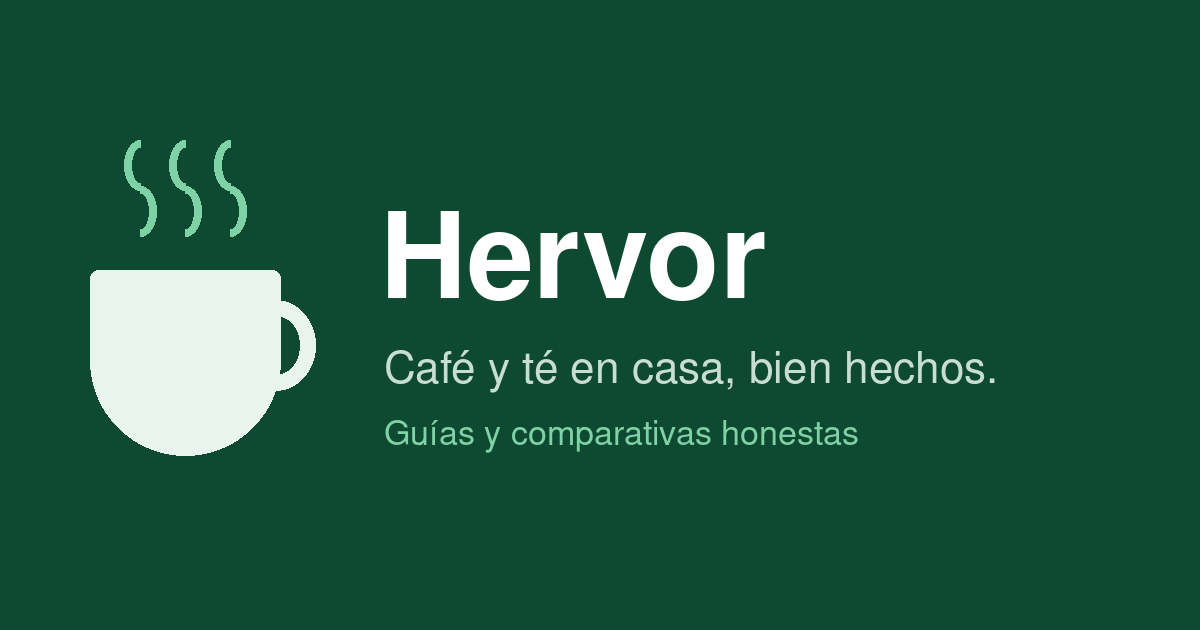
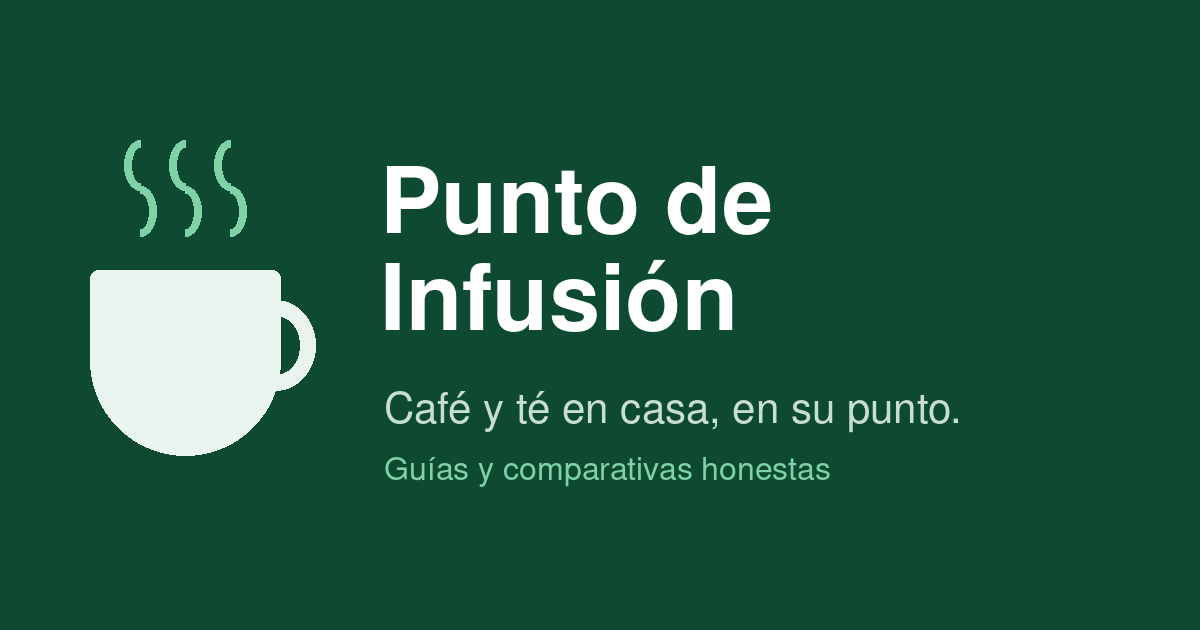
Cambio de marca a Punto de Infusión

Changed region(s): [[0.3083, 0.2413, 0.8325, 0.7841]]

diff --git a/build.py b/build.py
@@ -1,5 +1,5 @@
 #!/usr/bin/env python3
-"""Genera la web estática de Hervor en dist/.
+"""Genera la web estática de Punto de Infusión en dist/.
 
     python3 build.py            # construye dist/
     python3 build.py --serve    # construye y sirve en http://localhost:8088
@@ -144,11 +144,11 @@ def pagina(titulo, descripcion, ruta, contenido, schema=None, tipo_og='website',
 <meta property="og:title" content="{esc(titulo)}">
 <meta property="og:description" content="{esc(descripcion)}">
 <meta property="og:url" content="{canon}">
-<meta property="og:site_name" content="Hervor">
+<meta property="og:site_name" content="Punto de Infusión">
 <meta property="og:locale" content="es_ES">
 <meta property="og:image" content="{URL}/static/og.png">
 <link rel="icon" href="/static/favicon.svg" type="image/svg+xml">
-<link rel="alternate" type="application/rss+xml" title="Hervor" href="/feed.xml">
+<link rel="alternate" type="application/rss+xml" title="Punto de Infusión" href="/feed.xml">
 <link rel="preload" href="/static/fuentes/inter-400.woff2" as="font" type="font/woff2" crossorigin>
 <link rel="stylesheet" href="/static/estilo.css?v={CFG.get('version', '1')}">
 {ld}
@@ -156,9 +156,9 @@ def pagina(titulo, descripcion, ruta, contenido, schema=None, tipo_og='website',
 <body>
 <header class="cab">
   <div class="contenedor cab-in">
-    <a class="logo" href="/"><img src="/static/favicon.svg" alt="" width="28" height="28">Hervor</a>
+    <a class="logo" href="/"><img src="/static/favicon.svg" alt="" width="28" height="28">Punto de Infusión</a>
     <input type="checkbox" id="menu" hidden><label for="menu" class="menu-btn" aria-label="Menú">☰</label>
-    <nav>{nav}<a href="/sobre-hervor/">Quiénes somos</a></nav>
+    <nav>{nav}<a href="/quienes-somos/">Quiénes somos</a></nav>
   </div>
 </header>
 <main>
@@ -166,9 +166,9 @@ def pagina(titulo, descripcion, ruta, contenido, schema=None, tipo_og='website',
 </main>
 <footer class="pie">
   <div class="contenedor">
-    <p class="pie-marca"><strong>Hervor</strong> · Café y té en casa, bien hechos.</p>
+    <p class="pie-marca"><strong>Punto de Infusión</strong> · Café y té en casa, en su punto.</p>
     <p class="pie-aviso">{AVISO_AFILIADO} Los precios y la disponibilidad cambian; el precio válido es el que marca Amazon al comprar.</p>
-    <p class="pie-links"><a href="/sobre-hervor/">Quiénes somos</a><a href="/como-elegimos/">Cómo elegimos</a><a href="/afiliacion/">Afiliación</a><a href="/aviso-legal/">Aviso legal</a><a href="/privacidad/">Privacidad</a><a href="/cookies/">Cookies</a></p>
+    <p class="pie-links"><a href="/quienes-somos/">Quiénes somos</a><a href="/como-elegimos/">Cómo elegimos</a><a href="/afiliacion/">Afiliación</a><a href="/aviso-legal/">Aviso legal</a><a href="/privacidad/">Privacidad</a><a href="/cookies/">Cookies</a></p>
   </div>
 </footer>
 </body>
@@ -210,8 +210,8 @@ def main():
         articulos.append(meta)
     articulos.sort(key=lambda a: (str(a['actualizado']), a['titulo']), reverse=True)
     autor = CFG['autor']
-    persona = {'@type': 'Person', 'name': autor['nombre'], 'url': URL + '/sobre-hervor/'}
-    organizacion = {'@type': 'Organization', 'name': 'Hervor', 'url': URL + '/',
+    persona = {'@type': 'Person', 'name': autor['nombre'], 'url': URL + '/quienes-somos/'}
+    organizacion = {'@type': 'Organization', 'name': 'Punto de Infusión', 'url': URL + '/',
                     'logo': URL + '/static/favicon.svg'}
 
     for a in articulos:
@@ -226,14 +226,14 @@ def main():
         if len(relacionados) < 3:
             relacionados += [r for r in articulos if r['slug'] != a['slug'] and r not in relacionados][:3 - len(relacionados)]
         aviso = (f'<p class="aviso-art">Este artículo contiene enlaces de afiliado: si compras a través de ellos, '
-                 f'Hervor puede llevarse una pequeña comisión sin que tú pagues más. '
+                 f'Punto de Infusión puede llevarse una pequeña comisión sin que tú pagues más. '
                  f'<a href="/afiliacion/">Cómo funciona</a>.</p>') if a['productos'] else ''
         contenido = f'''
 <article class="contenedor articulo">
   <nav class="migas"><a href="/">Inicio</a> › <a href="/{cat["slug"]}/">{esc(cat["nombre"])}</a></nav>
   <h1>{esc(a["titulo"])}</h1>
   <p class="entradilla">{esc(a["descripcion"])}</p>
-  <p class="meta">Por <a href="/sobre-hervor/">{esc(autor["nombre"])}</a> · Actualizado el {fecha_es(a["actualizado"])}</p>
+  <p class="meta">Por <a href="/quienes-somos/">{esc(autor["nombre"])}</a> · Actualizado el {fecha_es(a["actualizado"])}</p>
   {aviso}
   <div class="cuerpo">{a["html"]}</div>
   {faq_html}
@@ -263,7 +263,7 @@ def main():
         lista = [a for a in articulos if a['categoria'] == c['slug']]
         contenido = f'''<section class="contenedor portada-cat"><h1>{esc(c["nombre"])}</h1><p class="entradilla">{esc(c["descripcion"])}</p>
 <div class="rejilla">{''.join(tarjeta_articulo(a) for a in lista)}</div></section>'''
-        escribir(f'/{c["slug"]}/', pagina(f'{c["nombre"]} — Hervor', c['descripcion'], f'/{c["slug"]}/', contenido))
+        escribir(f'/{c["slug"]}/', pagina(f'{c["nombre"]} — Punto de Infusión', c['descripcion'], f'/{c["slug"]}/', contenido))
 
     # portada
     bloques = ''.join(
@@ -280,18 +280,18 @@ def main():
 </div></section>
 {bloques}'''
     escribir('/', pagina(CFG['titulo'], CFG['descripcion'], '/', portada,
-                         [{'@context': 'https://schema.org', '@type': 'WebSite', 'name': 'Hervor', 'url': URL + '/',
+                         [{'@context': 'https://schema.org', '@type': 'WebSite', 'name': 'Punto de Infusión', 'url': URL + '/',
                            'inLanguage': 'es-ES', 'publisher': organizacion}]))
 
     # páginas fijas
     for f in sorted((RAIZ / 'content/paginas').glob('*.md')):
         meta, cuerpo = leer_md(f)
         contenido = f'<article class="contenedor articulo"><h1>{esc(meta["titulo"])}</h1><div class="cuerpo">{md(cuerpo)}</div></article>'
-        escribir(f'/{meta["slug"]}/', pagina(f'{meta["titulo"]} — Hervor', meta['descripcion'], f'/{meta["slug"]}/',
+        escribir(f'/{meta["slug"]}/', pagina(f'{meta["titulo"]} — Punto de Infusión', meta['descripcion'], f'/{meta["slug"]}/',
                                              contenido, indexar=not meta.get('noindex')))
 
     # 404
-    (DIST / '404.html').write_text(pagina('Página no encontrada — Hervor', 'No existe esta página.', '/404.html',
+    (DIST / '404.html').write_text(pagina('Página no encontrada — Punto de Infusión', 'No existe esta página.', '/404.html',
                                           '<section class="contenedor articulo"><h1>Aquí no hay nada</h1><p>La página no existe o ha cambiado de sitio. <a href="/">Volver a la portada</a>.</p></section>',
                                           indexar=False), encoding='utf-8')
 
@@ -309,7 +309,7 @@ def main():
         f'<description>{esc(a["descripcion"])}</description><pubDate>{date.fromisoformat(str(a["fecha"])).strftime("%a, %d %b %Y 08:00:00 +0200")}</pubDate></item>'
         for a in articulos[:20])
     (DIST / 'feed.xml').write_text(
-        f'<?xml version="1.0" encoding="UTF-8"?><rss version="2.0"><channel><title>Hervor</title><link>{URL}/</link>'
+        f'<?xml version="1.0" encoding="UTF-8"?><rss version="2.0"><channel><title>Punto de Infusión</title><link>{URL}/</link>'
         f'<description>{esc(CFG["descripcion"])}</description><language>es-es</language>{items}</channel></rss>', encoding='utf-8')
 
     print(f'dist/: {len(articulos)} artículos, {len(urls)} URLs en el sitemap' + ('' if TAG else '  (SIN etiqueta de afiliado)'))

diff --git a/scripts/deploy_easypanel.py b/scripts/deploy_easypanel.py
@@ -1,6 +1,6 @@
 #!/usr/bin/env python3
 """
-Publica Hervor: commit + push a GitHub (inhumario/hervor) y redeploy en EasyPanel (travelia/hervor).
+Publica Punto de Infusión (carpeta/repo/servicio se llaman hervor por su primer nombre): commit + push a GitHub (inhumario/hervor) y redeploy en EasyPanel (travelia/hervor).
 
 Uso:
   python3 scripts/deploy_easypanel.py            # primera vez: repo, servicio, dominio, DNS y deploy
@@ -16,6 +16,7 @@ import secrets
 import string
 import subprocess
 import sys
+import time
 import urllib.error
 import urllib.request
 from pathlib import Path
@@ -25,7 +26,8 @@ from infisical_get import get_secrets  # noqa: E402
 
 RAIZ = Path(__file__).resolve().parent.parent
 PROJECT, SERVICE, REPO = "travelia", "hervor", "inhumario/hervor"
-HOST = "hervor.inhumario.com"
+HOST = "puntodeinfusion.inhumario.com"
+HOSTS = ["puntodeinfusion.inhumario.com", "hervor.inhumario.com"]  # el segundo redirige 301 (nginx.conf)
 ZONA_INHUMARIO = "1e0d6a02e9584299ad53dba4bdb79699"
 IP_EASYPANEL = "46.202.168.58"
 
@@ -80,7 +82,7 @@ def preparar():
     tok = token_github()
     try:
         http("https://api.github.com/user/repos",
-             {"name": "hervor", "private": False, "description": "Hervor — café y té en casa (web estática)"},
+             {"name": "hervor", "private": False, "description": "Punto de Infusión — café y té en casa (web estática)"},
              {"Authorization": f"Bearer {tok}", "Accept": "application/vnd.github+json"})
         print("github: repo creado")
     except urllib.error.HTTPError as e:
@@ -102,23 +104,26 @@ def preparar():
     cf = get_secrets("cloudflare")["CLOUDFLARE_API_TOKEN"]
     base = f"https://api.cloudflare.com/client/v4/zones/{ZONA_INHUMARIO}/dns_records"
     auth = {"Authorization": f"Bearer {cf}"}
-    existentes = http(f"{base}?name={HOST}", headers=auth, method="GET")["result"]
-    cuerpo = {"type": "A", "name": "hervor", "content": IP_EASYPANEL, "proxied": False, "ttl": 300,
-              "comment": "Hervor (web de afiliados) en EasyPanel travelia/hervor"}
-    if existentes:
-        http(f"{base}/{existentes[0]['id']}", cuerpo, auth, "PUT")
-    else:
-        http(base, cuerpo, auth)
-    print(f"dns: {HOST} -> {IP_EASYPANEL}")
-    dominios = trpc("domains.listDomains", {"projectName": PROJECT, "serviceName": SERVICE})["json"]
-    if not any(d.get("host") == HOST for d in dominios):
-        trpc("domains.createDomain", {
-            "id": "c" + "".join(secrets.choice(string.ascii_lowercase + string.digits) for _ in range(24)),
-            "destinationType": "service", "host": HOST, "https": True, "path": "/", "middlewares": [],
-            "certificateResolver": "letsencrypt", "wildcard": False,
-            "serviceDestination": {"protocol": "http", "port": 80, "projectName": PROJECT, "serviceName": SERVICE}})
-        print(f"easypanel: dominio {HOST}")
+    for host in HOSTS:
+        existentes = http(f"{base}?name={host}&type=A", headers=auth, method="GET")["result"]
+        cuerpo = {"type": "A", "name": host.split(".")[0], "content": IP_EASYPANEL, "proxied": False, "ttl": 300,
+                  "comment": "Punto de Infusión (web de afiliados) en EasyPanel travelia/hervor"}
+        if existentes:
+            http(f"{base}/{existentes[0]['id']}", cuerpo, auth, "PUT")
+        else:
+            http(base, cuerpo, auth)
+        print(f"dns: {host} -> {IP_EASYPANEL}")
+    time.sleep(20)
 
+    dominios = trpc("domains.listDomains", {"projectName": PROJECT, "serviceName": SERVICE})["json"]
+    for host in HOSTS:
+        if not any(d.get("host") == host for d in dominios):
+            trpc("domains.createDomain", {
+                "id": "c" + "".join(secrets.choice(string.ascii_lowercase + string.digits) for _ in range(24)),
+                "destinationType": "service", "host": host, "https": True, "path": "/", "middlewares": [],
+                "certificateResolver": "letsencrypt", "wildcard": False,
+                "serviceDestination": {"protocol": "http", "port": 80, "projectName": PROJECT, "serviceName": SERVICE}})
+            print(f"easypanel: dominio {host}")
 
 
 def main():

diff --git a/scripts/gsc_alta.py b/scripts/gsc_alta.py
@@ -1,5 +1,5 @@
 #!/usr/bin/env python3
-"""Alta de hervor.inhumario.com en Search Console (propiedad de dominio verificada por TXT) y envío del sitemap.
+"""Alta de puntodeinfusion.inhumario.com en Search Console (propiedad de dominio verificada por TXT) y envío del sitemap.
 Token OAuth de Mario en ~/.config/aromas/google_token.json (scopes webmasters + siteverification)."""
 import json, sys, time, urllib.parse, urllib.request
 from pathlib import Path
@@ -8,7 +8,7 @@ from google.auth.transport.requests import Request
 sys.path.insert(0, str(Path.home() / '.config/aromas'))
 from infisical_get import get_secrets
 
-HOST = 'hervor.inhumario.com'; SITE = f'sc-domain:{HOST}'; ZONA = '1e0d6a02e9584299ad53dba4bdb79699'
+HOST = 'puntodeinfusion.inhumario.com'; SITE = f'sc-domain:{HOST}'; ZONA = '1e0d6a02e9584299ad53dba4bdb79699'
 c = Credentials.from_authorized_user_info(json.load(open(Path.home() / '.config/aromas/google_token.json'))); c.refresh(Request())
 
 def g(url, data=None, method=None):
@@ -25,7 +25,7 @@ def cfapi(m, p, d=None):
                                  data=json.dumps(d).encode() if d else None, headers={'Authorization': 'Bearer ' + cf, 'Content-Type': 'application/json'})
     with urllib.request.urlopen(req) as r: return json.load(r)['result']
 if not any(r['content'].strip('"') == tok for r in cfapi('GET', f'/dns_records?type=TXT&name={HOST}')):
-    cfapi('POST', '/dns_records', {'type': 'TXT', 'name': 'hervor', 'content': tok, 'ttl': 300, 'comment': 'Verificación Search Console Hervor'})
+    cfapi('POST', '/dns_records', {'type': 'TXT', 'name': HOST.split('.')[0], 'content': tok, 'ttl': 300, 'comment': 'Verificación Search Console Punto de Infusión'})
     print('TXT creado; esperando propagación'); time.sleep(45)
 for intento in range(6):
     try:

diff --git a/scripts/comprobar_asins.py b/scripts/comprobar_asins.py
@@ -38,6 +38,6 @@ print(f'{len(usos)} productos revisados, {len(problemas)} con problemas')
 for x in problemas: print(' -', x)
 if problemas and '--email' in sys.argv:
     from gmail_smtp import send
-    send('cuadrado.mario@aromasdete.com', f'Hervor: {len(problemas)} productos a revisar',
-         'Productos de Hervor que hay que sustituir o revisar:\n\n' + '\n'.join(problemas) +
+    send('cuadrado.mario@aromasdete.com', f'Punto de Infusión: {len(problemas)} productos a revisar',
+         'Productos de Punto de Infusión que hay que sustituir o revisar:\n\n' + '\n'.join(problemas) +
          '\n\nProyecto: ~/Claude/Code/hervor (scripts/comprobar_asins.py)')

diff --git a/scripts/indexnow.py b/scripts/indexnow.py
@@ -4,7 +4,7 @@ import json, re, urllib.request
 from pathlib import Path
 RAIZ = Path(__file__).resolve().parent.parent
 clave = next((RAIZ / 'static').glob('*.txt')).stem
-host = 'hervor.inhumario.com'
+host = 'puntodeinfusion.inhumario.com'
 urls = re.findall(r'<loc>([^<]+)</loc>', urllib.request.urlopen(f'https://{host}/sitemap.xml').read().decode())
 req = urllib.request.Request('https://api.indexnow.org/indexnow', method='POST', headers={'Content-Type': 'application/json'},
     data=json.dumps({'host': host, 'key': clave, 'keyLocation': f'https://{host}/{clave}.txt', 'urlList': urls}).encode())

diff --git a/scripts/qa.py b/scripts/qa.py
@@ -4,7 +4,7 @@ import re, sys
 from pathlib import Path
 RAIZ = Path(__file__).resolve().parent.parent
 arts = {f.stem: f.read_text() for f in (RAIZ / 'content/articulos').glob('*.md')}
-paginas = {'sobre-hervor', 'como-elegimos', 'afiliacion', 'aviso-legal', 'privacidad', 'cookies', 'cafe', 'te', 'accesorios', ''}
+paginas = {'quienes-somos', 'como-elegimos', 'afiliacion', 'aviso-legal', 'privacidad', 'cookies', 'cafe', 'te', 'accesorios', ''}
 fallos = 0
 for slug, t in sorted(arts.items()):
     cuerpo = t.split('\n---\n', 1)[-1]

diff --git a/content/paginas/cookies.md b/content/paginas/cookies.md
@@ -1,17 +1,17 @@
 ---
 titulo: Política de cookies
 slug: cookies
-descripcion: "Hervor no instala cookies propias ni de terceros. Información sobre las cookies de Amazon al seguir un enlace de afiliado."
+descripcion: "Punto de Infusión no instala cookies propias ni de terceros. Información sobre las cookies de Amazon al seguir un enlace de afiliado."
 noindex: true
 ---
-**Hervor no instala cookies**: ni propias ni de terceros, ni de análisis ni publicitarias. Por eso no verás un aviso de cookies al entrar. Las fuentes tipográficas se sirven desde nuestro propio servidor, así que visitar Hervor tampoco conecta tu navegador con servicios de terceros.
+**Punto de Infusión no instala cookies**: ni propias ni de terceros, ni de análisis ni publicitarias. Por eso no verás un aviso de cookies al entrar. Las fuentes tipográficas se sirven desde nuestro propio servidor, así que visitar Punto de Infusión tampoco conecta tu navegador con servicios de terceros.
 
 ## Cookies de Amazon
 
-Cuando haces clic en un enlace a Amazon.es, Amazon puede instalar cookies en tu navegador (entre ellas, las que usa para reconocer que llegaste desde Hervor y atribuir la compra al programa de afiliados). Esas cookies se instalan ya en la web de Amazon y se rigen por su [aviso de cookies](https://www.amazon.es/cookies).
+Cuando haces clic en un enlace a Amazon.es, Amazon puede instalar cookies en tu navegador (entre ellas, las que usa para reconocer que llegaste desde Punto de Infusión y atribuir la compra al programa de afiliados). Esas cookies se instalan ya en la web de Amazon y se rigen por su [aviso de cookies](https://www.amazon.es/cookies).
 
 ## Cómo gestionarlas
 
 Puedes borrar o bloquear las cookies desde la configuración de tu navegador (Chrome, Firefox, Safari, Edge…).
 
-Si en el futuro Hervor incorpora alguna cookie, esta política se actualizará y se pedirá tu consentimiento cuando la ley lo exija.
+Si en el futuro Punto de Infusión incorpora alguna cookie, esta política se actualizará y se pedirá tu consentimiento cuando la ley lo exija.

diff --git a/content/paginas/privacidad.md b/content/paginas/privacidad.md
@@ -1,7 +1,7 @@
 ---
 titulo: Política de privacidad
 slug: privacidad
-descripcion: "Política de privacidad de Hervor: qué datos se tratan, con qué finalidad y cuáles son tus derechos."
+descripcion: "Política de privacidad de Punto de Infusión: qué datos se tratan, con qué finalidad y cuáles son tus derechos."
 noindex: true
 ---
 ## Responsable del tratamiento
@@ -10,14 +10,14 @@ Mario Cuadrado López (NIF 14302271C), Calle Marchanilla, 3 — 45100 Sonseca (T
 
 ## Qué datos tratamos
 
-**Hervor no tiene formularios, registro ni newsletter**, y no recoge datos personales de sus visitantes.
+**Punto de Infusión no tiene formularios, registro ni newsletter**, y no recoge datos personales de sus visitantes.
 
-- **Registros técnicos del servidor**: como cualquier servidor web, el que aloja Hervor registra de forma temporal la dirección IP y la página solicitada, con el único fin de garantizar la seguridad y el funcionamiento del servicio (interés legítimo, art. 6.1.f RGPD). No se usan para identificarte ni se ceden a terceros.
+- **Registros técnicos del servidor**: como cualquier servidor web, el que aloja Punto de Infusión registra de forma temporal la dirección IP y la página solicitada, con el único fin de garantizar la seguridad y el funcionamiento del servicio (interés legítimo, art. 6.1.f RGPD). No se usan para identificarte ni se ceden a terceros.
 - **Correo electrónico**: si nos escribes, usaremos tu dirección solo para responderte y no la conservaremos más tiempo del necesario.
 
 ## Enlaces a Amazon
 
-Al hacer clic en un enlace a Amazon.es sales de Hervor. A partir de ese momento se aplica la política de privacidad y de cookies de Amazon, que usa sus propias cookies para atribuir la compra al programa de afiliados.
+Al hacer clic en un enlace a Amazon.es sales de Punto de Infusión. A partir de ese momento se aplica la política de privacidad y de cookies de Amazon, que usa sus propias cookies para atribuir la compra al programa de afiliados.
 
 ## Tus derechos
 

diff --git a/content/paginas/aviso-legal.md b/content/paginas/aviso-legal.md
@@ -1,7 +1,7 @@
 ---
 titulo: Aviso legal
 slug: aviso-legal
-descripcion: "Aviso legal de Hervor: datos del titular del sitio web y condiciones de uso."
+descripcion: "Aviso legal de Punto de Infusión: datos del titular del sitio web y condiciones de uso."
 noindex: true
 ---
 ## Titular del sitio web
@@ -12,17 +12,17 @@ En cumplimiento de la Ley 34/2002, de Servicios de la Sociedad de la Informació
 - **NIF**: 14302271C
 - **Domicilio**: Calle Marchanilla, 3 — 45100 Sonseca (Toledo), España
 - **Correo electrónico**: hola@inhumario.com
-- **Sitio web**: hervor.inhumario.com
+- **Sitio web**: puntodeinfusion.inhumario.com
 
 ## Objeto
 
-Hervor es una web informativa sobre preparación de café y té en casa que publica guías y comparativas de productos. Incluye enlaces de afiliado al Programa de Afiliados de Amazon EU (ver [Afiliación](/afiliacion/)).
+Punto de Infusión es una web informativa sobre preparación de café y té en casa que publica guías y comparativas de productos. Incluye enlaces de afiliado al Programa de Afiliados de Amazon EU (ver [Afiliación](/afiliacion/)).
 
 ## Condiciones de uso
 
 El acceso a esta web es gratuito y no requiere registro. El usuario se compromete a hacer un uso adecuado de los contenidos.
 
-La información publicada tiene carácter orientativo. Las características, precios y disponibilidad de los productos dependen de sus fabricantes y vendedores; la información válida es la que figura en la tienda en el momento de la compra. Hervor no vende productos ni interviene en las compras, que se realizan directamente con el vendedor correspondiente.
+La información publicada tiene carácter orientativo. Las características, precios y disponibilidad de los productos dependen de sus fabricantes y vendedores; la información válida es la que figura en la tienda en el momento de la compra. Punto de Infusión no vende productos ni interviene en las compras, que se realizan directamente con el vendedor correspondiente.
 
 ## Propiedad intelectual
 

diff --git a/content/paginas/quienes-somos.md b/content/paginas/quienes-somos.md
@@ -1,0 +1,25 @@
+---
+titulo: Quiénes somos
+slug: quienes-somos
+descripcion: "Punto de Infusión es una web de guías y comparativas para hacer buen café y buen té en casa, escrita por Mario Cuadrado, con 25 años en el sector del té y el café."
+---
+**Punto de Infusión** nace de una idea sencilla: para hacer buen café y buen té en casa no hace falta gastar mucho, pero sí saber en qué fijarse. Y eso es justo lo que las fichas de producto no cuentan.
+
+## Quién escribe
+
+Me llamo **Mario Cuadrado** y llevo más de 25 años en el mundo del té y el café. Fundé una empresa de tés e infusiones en Sonseca (Toledo) y desde entonces me he pasado la vida entre catas, proveedores, clientes que preguntan qué tetera comprar y cafeteras que prometen más de lo que dan.
+
+En Punto de Infusión cuento lo que he aprendido: qué temperatura necesita cada té, por qué el molinillo importa más que la cafetera o cuándo merece la pena pagar más y cuándo no.
+
+## Qué vas a encontrar
+
+- **Comparativas** de cafeteras, molinillos, hervidores, teteras y accesorios, con lo bueno y lo malo de cada producto.
+- **Guías prácticas**: temperaturas, moliendas, proporciones y los errores más comunes.
+
+## Cómo nos financiamos
+
+Punto de Infusión se mantiene con enlaces de afiliado de Amazon: si compras algo a través de ellos, nos llevamos una pequeña comisión y tú pagas lo mismo. Ninguna marca paga por aparecer ni revisa lo que escribimos. Lo explicamos con detalle en [Afiliación](/afiliacion/) y en [Cómo elegimos](/como-elegimos/).
+
+## Contacto
+
+¿Has encontrado un error o quieres que analicemos algo? Escríbenos a **hola@inhumario.com**.

diff --git a/content/paginas/afiliacion.md b/content/paginas/afiliacion.md
@@ -1,9 +1,9 @@
 ---
 titulo: Enlaces de afiliado
 slug: afiliacion
-descripcion: "Cómo funcionan los enlaces de afiliado de Hervor: participamos en el Programa de Afiliados de Amazon EU y recibimos una comisión sin coste para ti."
+descripcion: "Cómo funcionan los enlaces de afiliado de Punto de Infusión: participamos en el Programa de Afiliados de Amazon EU y recibimos una comisión sin coste para ti."
 ---
-Hervor participa en el **Programa de Afiliados de Amazon EU**, un programa de publicidad para afiliados diseñado para ofrecer a sitios web un modo de obtener comisiones por publicidad, publicitando e incluyendo enlaces a Amazon.es.
+Punto de Infusión participa en el **Programa de Afiliados de Amazon EU**, un programa de publicidad para afiliados diseñado para ofrecer a sitios web un modo de obtener comisiones por publicidad, publicitando e incluyendo enlaces a Amazon.es.
 
 **Como Afiliado de Amazon, obtengo ingresos por las compras adscritas que cumplen los requisitos aplicables.**
 

diff --git a/content/articulos/mejores-teteras-con-infusor.md b/content/articulos/mejores-teteras-con-infusor.md
@@ -1,6 +1,6 @@
 ---
 titulo: "Las mejores teteras con infusor: cristal, porcelana y hierro fundido"
-titulo_seo: "Mejores teteras con infusor (2026): cristal y hierro — Hervor"
+titulo_seo: "Mejores teteras con infusor (2026): cristal y hierro"
 descripcion: "Teteras con infusor de cristal, porcelana y hierro fundido tipo tetsubin: cuál elegir según el té que tomas, cuántas tazas haces y cómo cuidar el hierro."
 resumen: "Siete teteras con infusor de cristal, cerámica y hierro fundido, y cómo cuidar un tetsubin para que dure años."
 categoria: te
